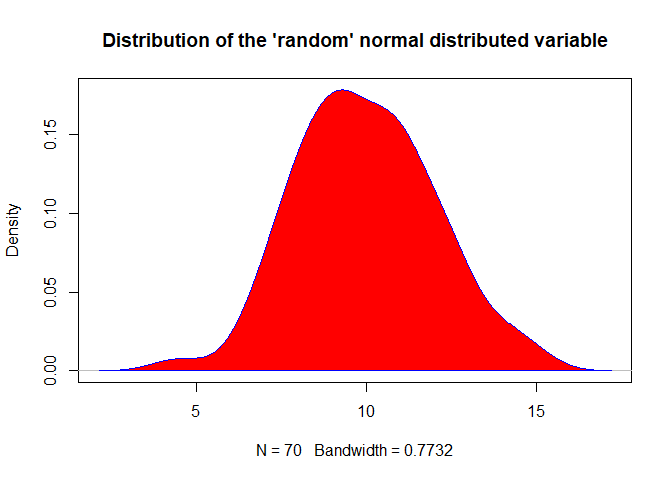
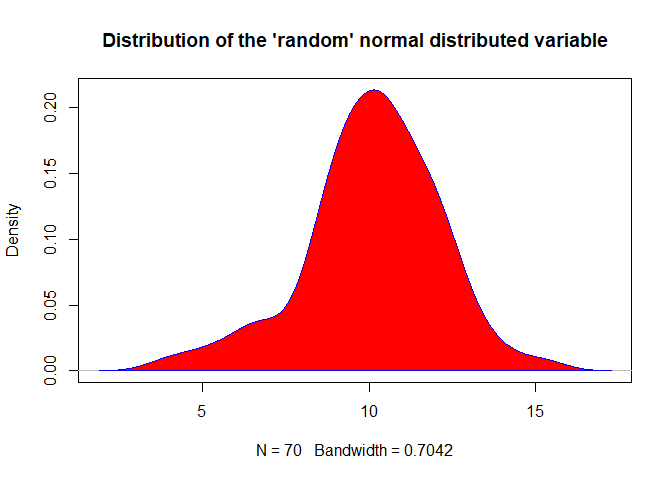
W8 Monday Commit

diff --git a/Timecards/Week-7-Timecard.md b/Timecards/Week-7-Timecard.md
@@ -4,25 +4,28 @@ Nurrospody
 5/11/2020
 
 **Monday** - 2 hours 38 minutes - set up timecard and README hyperlink,
-wrote Week 6 reflection. Wrote up the section on skewness and kurtosis,
-complete with their definitions; although I had learned about it last
-week, I didn’t actually get to using the equations. I had an issue where
-CRAN wasn’t mirroring correctly, so I had to manually reset the
-repository in my knit for the first time. I also looked up how to make a
-better ‘distribution curve’ graph for my kurtosis example that wasn’t a
+wrote Week 6 reflection. [In Chapter 4
+part 4](https://github.com/Nurrospody/SOURCE-Statistics-ILC/blob/master/Chapter%20Reports/CH4-part4.md),
+I: Wrote up the section on skewness and kurtosis, complete with their
+definitions; although I had learned about it last week, I didn’t
+actually get to using the equations. I had an issue where CRAN wasn’t
+mirroring correctly, so I had to manually reset the repository in my
+knit for the first time. I also looked up how to make a better
+‘distribution curve’ graph for my kurtosis example that wasn’t a
 historgram or a Q-Q plot that would simply prove normality, so I learned
 how to plot a Kernel Density plot.  
 Settup chapter 4 part5 report. Only binomial and str() summary() are
 left, so this should be the last part of chapter 4.
 
-**Tuesday** - 2 hours 10 minutes - Learned how to work with binomial
-distributions in R, used both the book and R’s help() function to figure
-out what everything did. Discovered that R doesn’t have a count
-function? I could have sworn it did and that I used it, but I couldn’t
-find it in any of my reports so I’ll look into it later (I wanted to
-count how many heads and how many tails my simulated data got). Made
-some quick summaries/structures to officially finish chapter 4. Fixed a
-() error in README.
+**Tuesday** - 2 hours 10 minutes - [In Chapter 4
+Part 5](https://github.com/Nurrospody/SOURCE-Statistics-ILC/blob/master/Chapter%20Reports/CH4-part5.md),
+I: Learned how to work with binomial distributions in R, used both the
+book and R’s help() function to figure out what everything did.
+Discovered that R doesn’t have a count function? I could have sworn it
+did and that I used it, but I couldn’t find it in any of my reports so
+I’ll look into it later (I wanted to count how many heads and how many
+tails my simulated data got). Made some quick summaries/structures to
+officially finish chapter 4. Fixed a () error in README.
 
 **Wednesday** - 2 hours 33 minutes - I read through the whole of chapter
 5 so that I knew what to expect when doing the excercises in R; because
@@ -39,18 +42,74 @@ a bunch of graphs, I read chapter 2 of my Statistics Done Wrong book. I
 told my partner he should read the chapters so he can be as cynical and
 disappointed as me now.
 
-**Thursday** - 1 hours 16 minutes - Wrote up the Statistics Gone Wrong
-musings from chapter 2, now that my computer is back in buisness.
-Created new report skeleton and added to README –“why is it doing that?”
-(today I learned if you don’t have — under your header it doesn’t get
-detected properly when knitting\!)
+**Thursday** - 2 hours 43 minutes - Wrote up the [Statistics Gone Wrong
+musings from
+chapter 2](https://github.com/Nurrospody/SOURCE-Statistics-ILC/blob/master/Statistics%20Done%20Wrong%20Musings/CH2.md),
+now that my computer is back in buisness. Created new report skeleton
+and added to README –“why is it doing that?” (today I learned if you
+don’t have — under your header it doesn’t get detected properly when
+knitting\!). I then started a [report on my high kurtosis/normal data
+question](https://github.com/Nurrospody/SOURCE-Statistics-ILC/blob/master/Chapter%20Reports/SPECIALCH4.md),
+which was mostly reading a lot to figure out the different normality
+tests.
 
-**Friday** - 0 hours 0 minutes - work description
+**Friday** - 0 hours 20 minutes - Worked more on SPECIAL normality of
+data report; organized what I had written a little bit better. But then
+my I had an internet outage that lasted until dinnertime . . . so I
+couldn’t download any of the packs I needed for most normality tests or
+do much.
 
-**Saturday** - 0 hours 0 minutes - work description
+**Saturday** - 0 hours 0 minutes - Took a break today.
 
-**Sunday** - 0 hours 0 minutes - work description
+**Sunday** - 0 hours 0 minutes - Worked on the living room today:
+finally got a truck to move our unwanted furniture out, so we could
+build our wanted furniture and re-arrange things\!
 
 *Note: Kurtosis represents how common extreme values (data on the tails)
 are. Investigate why a symmetrically skewed, high kurtosis curve, IS or
 IS NOT normal.*
+
+Until my work got interrupted by internet outages and it being the
+weekend so time to work on other things . . . I think I did pretty well.
+I finished chapter 4 and then started chapter 5. I didn’t worry about
+time very much and instead concentrated on just getting enough work
+done. This week was a LOT of reading, and some of the info was pretty
+dense–I spent hours just reading through what different statistics tests
+are, and what different test statistics are. (That sentence looks funny,
+but statistics tests and test statistics ARE different things). Because
+it was so much reading the quantity of words in my report doesn’t really
+show everything I did this week–an hour of reading may end up as one or
+two concise explanation sentences afterall, or may effect the graphs I
+make in the future.  
+On Wednesday, my workload got interrupted because of my computer
+freezing up. So I had to switch to reading my stats book instead of
+practicing graphs. And I really wish that my graph momentum hadn’t
+gotten interrupted . . . because when I started working the next day, it
+was like, “uuugggh I gotta make graphs ALL DAY NOW” *and* I was just
+starting for the first time . . . so I did something else i.e. writing
+the report from my Musings reading, and working on the special
+kurtosis/normality question. I think if I could have started a little
+bit on Wednesday, if my computer hadn’t froze up, I would have been much
+more okay continuing on Thursday. Oh well.  
+I took a look again at my contract description for Advanced Statistics.
+It’s interesting because I’ve been doing everything except for actually
+working through problem sets. Learning all of the basics of R and
+programing has taken and is taking a very long time. And while it would
+be to my advantage to eventually work through some problems with
+intended solution methods and etc . . . I feel like I’ve been doing a
+pretty good job with what I have been learning, and I’m sure I’ll get
+there *eventually*. Something I’m thinking about is that even through
+the contract only lasts 10 weeks, it’s not like I’m going to stop
+learning R after the 10 weeks ends. I’ll just . . . keep going,
+regardless of if I have a sponsor or a credit backing me up or not. The
+slowness of learning R has taught me that regardness of me spending my
+last quarters learning about stats or not, I won’t be ready to throw
+myself into the job market by the time I graduate. I’ll have to keep
+learning anyway. Whether it’s learning R; learning more about different
+stats calculations I don’t know; trying to work on retention so I don’t
+have to refer to old reports every time I want to do something; learning
+calculus like my sponsor reccomended since my mathematics skeleton is
+lacking some vertebra . . . I’ll just keep working on it. It’s really
+nice to have a direction, and it’s helpful that in th is time of
+COVID-19 everything is on-pause anyway. This is one of the best times to
+learn and come back better.

diff --git a/Chapter Reports/SPECIALCH4.md b/Chapter Reports/SPECIALCH4.md
@@ -1,0 +1,45 @@
+SPECIAL CH4 - Further Investigation into High Kurtosis and Normality
+================
+Nurrospody
+5/14/2020
+
+Data can be perfectly normally distributed but with high levels of
+kurtosis. High kurtosis means that much of the variation comes from
+outliers in the tails, rather than normal variation in the curve. Is
+symmetry all data needs to be normal? If a curve is not biased, but
+extremely steep, is it *actually* normally distributed data?
+
+On rdocumentation.org, there is a page that [documents R functions that
+do normality
+tests](https://www.rdocumentation.org/packages/fBasics/versions/3011.87/topics/NormalityTests).
+
+If a normality test is ALSO a omnibus test, it can help mathematically
+solve tihs problem, since both skew AND kurtosis are involved in the
+calculations. The source page I found does not list the “full” names of
+each test, but I found from other reading that the full name of the
+`dagoTest` D’Agostino normality test is “D’Agostino-Pearson *omnibus*
+test”.  
+If I want to test for normality with both skew and kurtosis involved,
+I’ll have to more intimately look what all these normality tests do
+and what they use in their equations. Alternately, I can test data with
+multiple tests, and note that different results represent the data that
+was or wasn’t used in each equation. (I must be careful to not fall into
+the trap of running data multiple times until I get a test that does
+tell me what I want).
+
+After some browsing, my best resource seemed to be [an online pdf from
+NCSS Statistical
+Software](https://ncss-wpengine.netdna-ssl.com/wp-content/themes/ncss/pdf/Procedures/NCSS/Normality_Tests.pdf)
+about different Normality equations.
+
+It appears that the shapiro test is the highest regarded of the
+normality tests, being able to reliably test samples with up to n5000
+(theoretically unlimited n). I had mentioned not knowing what W was; it
+is roughly a measure of how straight a Q-Q plot of the same data will
+be. So a value closer to 1 means a more straight Q-Q plot.
+
+To continue reading the CH4 reports, select a new section:  
+[Part 5 of the Chapter 4
+Reports](https://github.com/Nurrospody/SOURCE-Statistics-ILC/blob/master/Chapter%20Reports/CH4-part5.md)  
+[Link to README to select any Chapter
+Report](https://github.com/Nurrospody/SOURCE-Statistics-ILC/blob/master/README.md)

diff --git a/Chapter Reports/CH4-part4.md b/Chapter Reports/CH4-part4.md
@@ -45,9 +45,9 @@ N; variance; sqrt(variance);
 
     ## [1] 70
 
-    ## [1] 4.029172
+    ## [1] 4.030052
 
-    ## [1] 2.00728
+    ## [1] 2.007499
 
 The first number in the solution box is N (70), the second number is the
 POP Variance (probably about 4), and the third number is the POP
@@ -103,7 +103,7 @@ qnorm(0.50, 10, 2); mean(random); qnorm(0.84, 10, 2);
 
     ## [1] 10
 
-    ## [1] 9.963782
+    ## [1] 10.10943
 
     ## [1] 11.98892
 
@@ -156,7 +156,7 @@ install.packages("moments")
     ## package 'moments' successfully unpacked and MD5 sums checked
     ## 
     ## The downloaded binary packages are in
-    ##  C:\Users\Persimmon\AppData\Local\Temp\Rtmpk7bTj7\downloaded_packages
+    ##  C:\Users\Persimmon\AppData\Local\Temp\RtmpKqdVGo\downloaded_packages
 
 ``` r
 require(moments)
@@ -170,7 +170,7 @@ hist(random); skewness(random)
 
 ![](CH4-part4_files/figure-gfm/mom-1.png)<!-- -->
 
-    ## [1] 0.09780196
+    ## [1] -0.5112289
 
 Unless something terribly extreme happened with the normal distribution
 random seed, the skewness result should be approximately normal and a
@@ -194,7 +194,7 @@ Student’s t with 4 df has infinity kurtosis.
 kurtosis(random);
 ```
 
-    ## [1] 2.928854
+    ## [1] 3.828577
 
 R appears to use “excess” sample kurtosis as its returned value, like
 Excel does.  
@@ -216,6 +216,8 @@ polygon(d, col="red", border="blue")
 ![](CH4-part4_files/figure-gfm/unnamed-chunk-3-1.png)<!-- -->
 
 To continue reading the CH4 reports, select a new section:  
+[SPECIAL continuation on high kurtosis and
+normality](https://github.com/Nurrospody/SOURCE-Statistics-ILC/blob/master/Chapter%20Reports/SPECIALCH4.md)  
 [Part 5 of the Chapter 4
 Reports](https://github.com/Nurrospody/SOURCE-Statistics-ILC/blob/master/Chapter%20Reports/CH4-part5.md)  
 [Link to README to select any Chapter

diff --git a/README.md b/README.md
@@ -23,6 +23,7 @@ My Chapter Reports show my work and the commands I've practiced with in R.
 [CH4 *.xlsx* and SPSS files (reading and writing) and Basic Data Processing](https://github.com/Nurrospody/SOURCE-Statistics-ILC/blob/master/Chapter%20Reports/CH4-part2.md)  
 [CH4 Central Tendency, Spread, Variation Commands, Random Number Generation](https://github.com/Nurrospody/SOURCE-Statistics-ILC/blob/master/Chapter%20Reports/CH4-part3.md)  
 [CH4 part4 Special Central Tendencies, Cumulative Distribution Function, Skewness and Kurtosis](https://github.com/Nurrospody/SOURCE-Statistics-ILC/blob/master/Chapter%20Reports/CH4-part4.md)  
+[CH4 SPECIAL REPORT on high kurtosis and normality](https://github.com/Nurrospody/SOURCE-Statistics-ILC/blob/master/Chapter%20Reports/SPECIALCH4.md)  
 [CH4 part5 Binomial Distribution and Summary/Structure](https://github.com/Nurrospody/SOURCE-Statistics-ILC/blob/master/Chapter%20Reports/CH4-part5.md) 
 
 *Chapter 5*  
